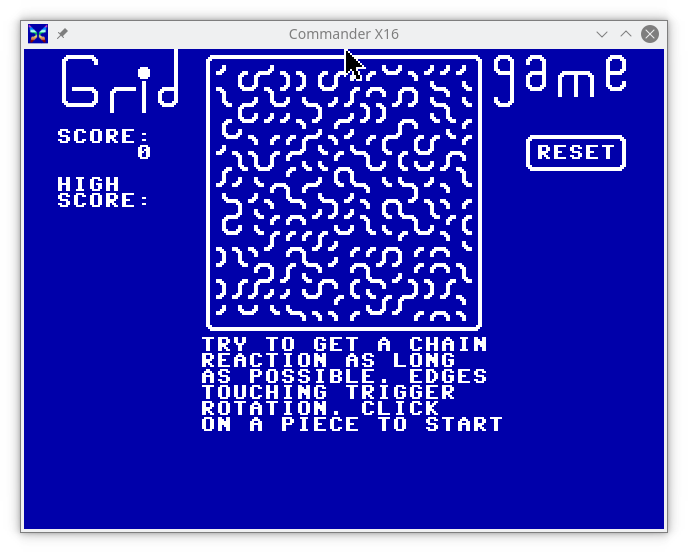
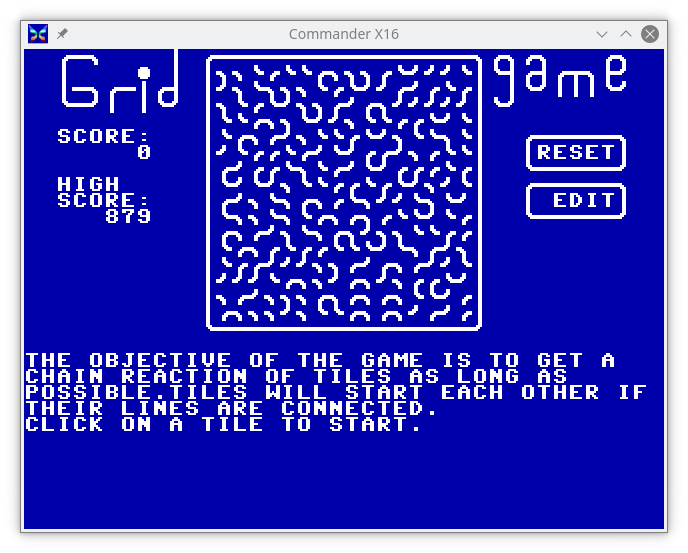
Just a quick bug-fix, I forgot to do something with the highscore reset button.

Changed region(s): [[0.0305, 0.0922, 0.9462, 0.7993], [0.7631, 0.3074, 0.9157, 0.3996], [0.1526, 0.3689, 0.2137, 0.3996]]

diff --git a/gridgame.c b/gridgame.c
@@ -268,7 +268,7 @@ void updatescore () {
 		nhs = true;
 		hscore = score;
 	}
-	if (hscore) {
+	if (hscore || nhs == true) {
 		gotoxy (2,10);
 		cprintf ("%6d",hscore);
 	}
@@ -287,6 +287,7 @@ void savehs () {
 	if (editmode) {
 		nhs = true;
 		hscore = 0;
+		updatescore ();
 	}
 	
 	if (nhs == true) {
@@ -484,7 +485,6 @@ void check (Queue *Q, unsigned char cx, unsigned char cy, unsigned char dir) {
 			exit (1);
 	}
 	
-
 	// check to see if we're already marked to rotate
 	gotoxy (cx,cy);
 	cc = cpeekcolor ();
@@ -619,6 +619,9 @@ void mbutton (unsigned char mx, unsigned char my) {
 		}
 		if ((mx >= 31 && mx <= 37) && (my >= 14 && my <= 17)) {
 			saveboard ();
+		}
+		if ((mx >= 1 && mx <= 7) && (my >=11 && my <= 13)) {
+			savehs ();
 		}
 		if ((mx >= 12 && mx <= 27) && (my == 0 || my == 17)) {
 			// mark column same as top/bottom cell

diff --git a/README.md b/README.md
@@ -30,6 +30,11 @@ rotations.
 ## Board editing, saving, and loading
 ![gridedit](gridedit.png)
 
+New feature in v0.9.1
+
+The 'RESET' button on the HIGH SCORE now resets the HIGH SCORE to
+'0'.
+
 New feature in v0.9.
 
 Click on the 'EDIT' button and you can edit the board.  
@@ -98,13 +103,17 @@ for `cc65` compiler and the 6502 CPU.
 
 ## Changelog:
 
-v0.9 - New features:  
+v0.9.1 - Bug fix
+ - 'RESET' button under the HIGH SCORE now resets the high score to '0'  
+
+v0.9 - New features:
  - Board editing, loading, and saving.  
-Bugs fixed:  
+Bugs fixed: 
  - Clicking outside the playfield would reset score to '0'  
  - Score was incrementing *after* the screen score was updated.
  
 v0.6 - High Scores are saved across runs of the game.  
+
 v0.5 - Initial release of playable game.
 
 ## Potential features for future versions:
